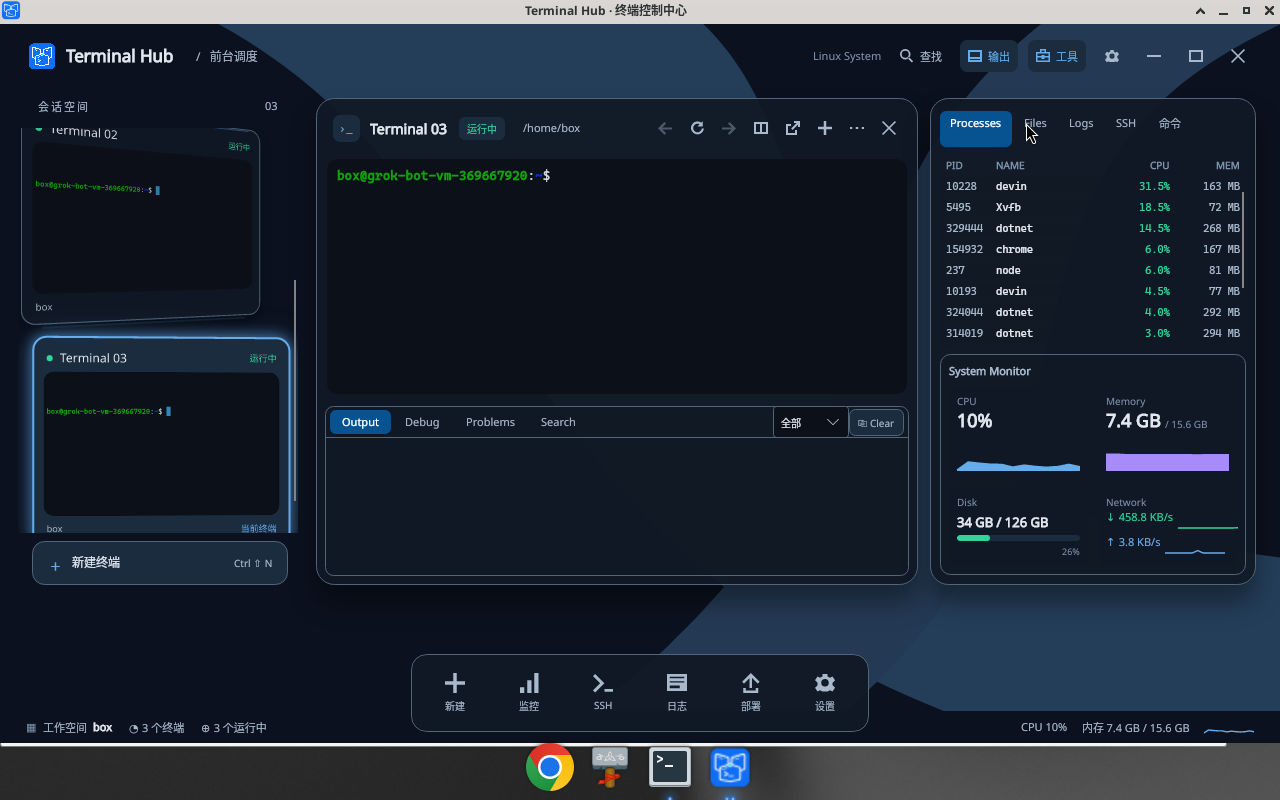
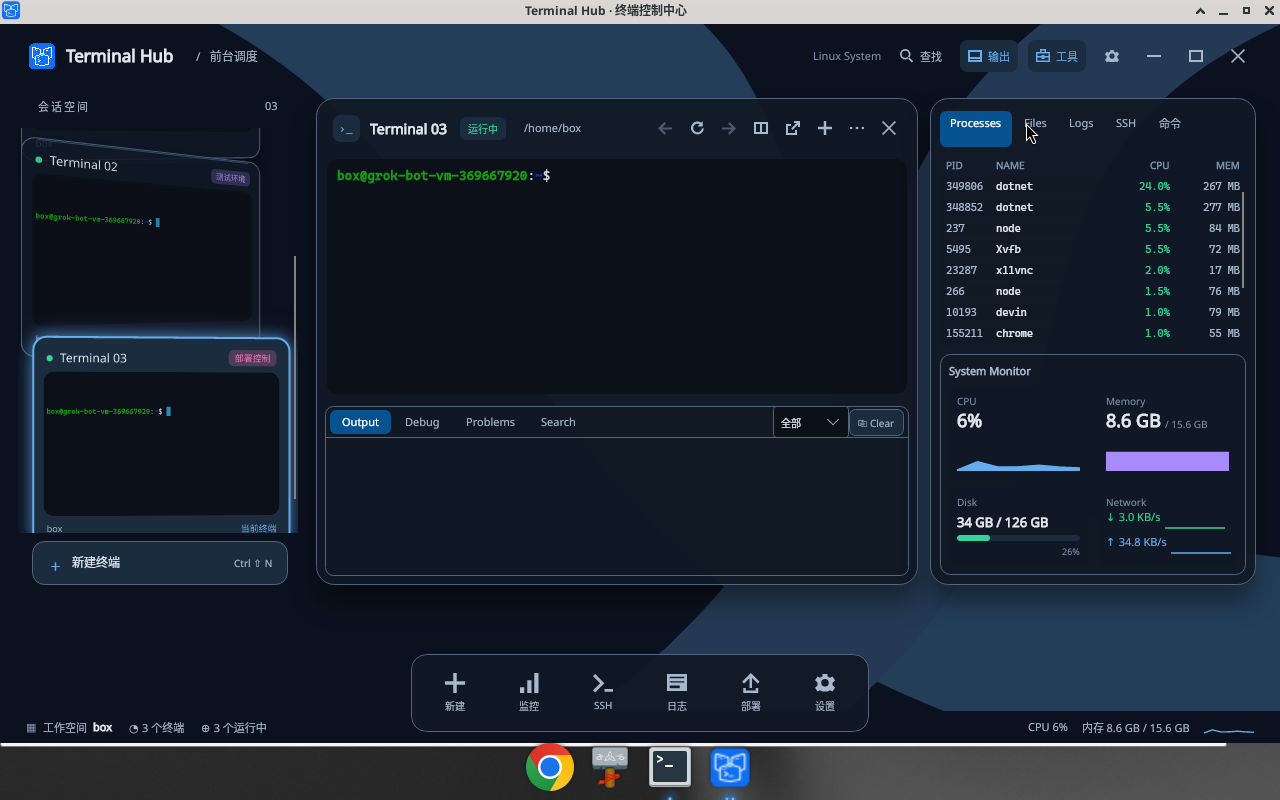
Review fixes: shrinking chrome columns, true stack overlap, test hygiene
- Name column Auto -> * (MaxWidth 360) and cwd *: Auto columns never
  shrink, so a long session name used to push every action button past
  the stage edge. Both text columns now ellipsize while nav / split /
  popout / new / menu / close stay reachable. Regression test:
  LongSessionName_ChromeButtonsStayReachable asserts menu+close inside
  the stage right edge at 1100x700.
- Shelf stack is now real overlap: StackPanel Spacing 16 -> 0, so the
  -16 card margin produces pitch = height - 16 instead of merely
  adjacent cards. The topmost card is exempt via
  SessionCardViewModel.IsFirstOnShelf / ShelfTopMargin so its header no
  longer bleeds 16px into the shelf title row; regression:
  ShelfStack_FirstCardNoOverlap_OthersTuck.
- ScrollIntoView for the active card now nudges the ScrollViewer so a
  tucked card's header is not clipped above the viewport
  (RevealShelfCard in MainWindow.axaml.cs).
- ThumbnailHeight formula synced: cards need height - overlap per extra
  card, so add (n-1)*overlap back instead of subtracting a gap that no
  longer exists.
- Tests: MainWindowViewModel instances are disposed (using var) and
  PtySessionFactory.UseMock is reset in finally.

Full suite: 534 passed / 0 failed / 3 skipped. Screenshots refreshed:
thumb-stack.png / stage-single-row-chrome.png (real overlap + full
name + all buttons reachable).

Generated with [Devin](https://devin.ai)

diff --git a/tests/TerminalHub.Tests/InspectorVisibilityTests.cs b/tests/TerminalHub.Tests/InspectorVisibilityTests.cs
@@ -21,7 +21,7 @@ public class InspectorVisibilityTests
         Assert.Null(new AppSettings().InspectorVisible); // unset = default-on
 
         var dir = Path.Combine(Path.GetTempPath(), Guid.NewGuid().ToString("N"));
-        var vm = new MainWindowViewModel(new IdleMonitor(), new SettingsStore(Path.Combine(dir, "settings.json")));
+        using var vm = new MainWindowViewModel(new IdleMonitor(), new SettingsStore(Path.Combine(dir, "settings.json")));
         Assert.True(vm.InspectorVisible); // fresh install → inspector expanded
         Assert.Equal(0, vm.SelectedRightTab); // Processes tab first, like the mockup
     }
@@ -34,7 +34,7 @@ public class InspectorVisibilityTests
         try
         {
             new SettingsStore(path).Save(new AppSettings { InspectorVisible = false });
-            var vm = new MainWindowViewModel(new IdleMonitor(), new SettingsStore(path));
+            using var vm = new MainWindowViewModel(new IdleMonitor(), new SettingsStore(path));
             Assert.False(vm.InspectorVisible); // explicit user choice wins
         }
         finally { try { Directory.Delete(dir, true); } catch { } }
@@ -47,13 +47,13 @@ public class InspectorVisibilityTests
         var path = Path.Combine(dir, "settings.json");
         try
         {
-            var vm = new MainWindowViewModel(new IdleMonitor(), new SettingsStore(path));
+            using var vm = new MainWindowViewModel(new IdleMonitor(), new SettingsStore(path));
             vm.ToggleInspectorCommand.Execute(null); // user hides it
             Assert.False(vm.InspectorVisible);
             vm.PersistSettings();
             Assert.Equal(false, new SettingsStore(path).Load().InspectorVisible);
 
-            var vm2 = new MainWindowViewModel(new IdleMonitor(), new SettingsStore(path));
+            using var vm2 = new MainWindowViewModel(new IdleMonitor(), new SettingsStore(path));
             Assert.False(vm2.InspectorVisible); // choice survives restart
             vm2.ToggleInspectorCommand.Execute(null);
             vm2.PersistSettings();
@@ -67,7 +67,7 @@ public class InspectorVisibilityTests
     {
         var dir = Path.Combine(Path.GetTempPath(), Guid.NewGuid().ToString("N"));
         using var monitor = new SystemMonitor();
-        var vm = new MainWindowViewModel(monitor, new SettingsStore(Path.Combine(dir, "settings.json")));
+        using var vm = new MainWindowViewModel(monitor, new SettingsStore(Path.Combine(dir, "settings.json")));
         var deadline = DateTime.UtcNow + TimeSpan.FromSeconds(6);
         while (vm.Dashboard.Processes.Count == 0 && DateTime.UtcNow < deadline)
             await Task.Delay(150);
@@ -84,10 +84,10 @@ public class InspectorVisibilityTests
     {
         PtySessionFactory.UseMock = true;
         var window = new MainWindow { Width = 1440, Height = 900 };
-        window.Show();
-        var vm = (MainWindowViewModel)window.DataContext!;
         try
         {
+            window.Show();
+            var vm = (MainWindowViewModel)window.DataContext!;
             Assert.True(vm.InspectorVisible);
 
             var deadline = DateTime.UtcNow + TimeSpan.FromSeconds(6);
@@ -102,7 +102,7 @@ public class InspectorVisibilityTests
             Assert.NotEmpty(list.GetVisualDescendants().OfType<TextBlock>()
                 .Where(t => int.TryParse(t.Text, out _))); // PID column realized
         }
-        finally { window.Close(); }
+        finally { window.Close(); PtySessionFactory.UseMock = false; }
     }
 
     private sealed class IdleMonitor : ISystemMonitor

diff --git a/tests/TerminalHub.Tests/StageLayoutTests.cs b/tests/TerminalHub.Tests/StageLayoutTests.cs
@@ -22,7 +22,7 @@ public class StageLayoutTests
         public MainWindow Window { get; }
         public MainWindowViewModel Vm => (MainWindowViewModel)Window.DataContext!;
 
-        public StageFixture(int width = 1440, int height = 900)
+        public StageFixture(int width = 1440, int height = 900, string? firstSessionName = null)
         {
             PtySessionFactory.UseMock = true;
             var store = new SettingsStore(Path.Combine(_directory, "settings.json"));
@@ -30,7 +30,8 @@ public class StageLayoutTests
             {
                 StartupSessions = Enumerable.Range(1, 5).Select(i => new StartupSession
                 {
-                    Name = $"Terminal {i:00}", Tag = i == 2 ? "测试环境" : "开发环境",
+                    Name = firstSessionName is not null && i == 1 ? firstSessionName : $"Terminal {i:00}",
+                    Tag = i == 2 ? "测试环境" : "开发环境",
                     WorkingDirectory = Environment.CurrentDirectory
                 }).ToList()
             });
@@ -79,6 +80,41 @@ public class StageLayoutTests
         var inactiveBorder = inactive.GetVisualChildren().OfType<Border>().First();
         Assert.False(Glows(inactiveBorder.BoxShadow)); // idle card keeps its plain shadow
         Assert.NotEqual(accent.Color, ((ISolidColorBrush?)inactiveBorder.BorderBrush)?.Color);
+    }
+
+    [AvaloniaFact]
+    public async Task LongSessionName_ChromeButtonsStayReachable()
+    {
+        var longName = "VeryLongSessionName-" + new string('长', 40) + "-tail";
+        using var fixture = new StageFixture(width: 1100, height: 700, firstSessionName: longName);
+        await Task.Delay(700);
+        var window = fixture.Window;
+        fixture.Vm.ActiveCard = fixture.Vm.SessionCards[0];
+        await Task.Delay(300);
+
+        var stage = window.FindControl<StageSurface>("StageWindow")!;
+        var menu = window.FindControl<Button>("SessionMenuButton")!;
+        var close = window.GetVisualDescendants().OfType<Button>()
+            .First(b => ToolTip.GetTip(b) as string == "关闭当前终端 · Ctrl+Shift+W");
+        Assert.True(menu.IsEffectivelyVisible);
+        Assert.True(close.IsEffectivelyVisible);
+
+        // The star-sized name column must shrink so the trailing Auto columns
+        // (menu, close) stay inside the stage card's right edge.
+        var stageRight = stage.TranslatePoint(new Point(stage.Bounds.Width, 0), window)!.Value.X;
+        Assert.True(close.TranslatePoint(new Point(close.Bounds.Width, 0), window)!.Value.X <= stageRight + 1);
+        Assert.True(menu.TranslatePoint(new Point(menu.Bounds.Width, 0), window)!.Value.X <= stageRight + 1);
+    }
+
+    [AvaloniaFact]
+    public async Task ShelfStack_FirstCardNoOverlap_OthersTuck()
+    {
+        using var fixture = new StageFixture();
+        await Task.Delay(600);
+        var cards = fixture.Vm.SessionCards;
+        Assert.NotEmpty(cards);
+        Assert.Equal(0, cards[0].ShelfTopMargin.Top); // topmost card must not bleed into the title row
+        Assert.All(cards.Skip(1), c => Assert.Equal(-SessionCardViewModel.ShelfOverlap, c.ShelfTopMargin.Top));
     }
 
     [AvaloniaTheory]

diff --git a/src/TerminalHub.App/Views/MainWindow.axaml.cs b/src/TerminalHub.App/Views/MainWindow.axaml.cs
@@ -120,15 +120,34 @@ public partial class MainWindow : Window
         if (_dragCard is not null) return;
         // Keep enough height for the full terminal grid; overflow remains scrollable.
         var visibleCards = Math.Clamp(Vm.SessionCards.Count, 1, 5);
-        ThumbnailHeight = Math.Clamp((SessionShelf.Bounds.Height - 34 - (visibleCards - 1) * 16) / visibleCards, 208, 268);
+        // Cards tuck 16px under the previous one, so each extra card only needs
+        // height - overlap of vertical room.
+        var overlap = SessionCardViewModel.ShelfOverlap;
+        ThumbnailHeight = Math.Clamp((SessionShelf.Bounds.Height - 34 + (visibleCards - 1) * overlap) / visibleCards, 208, 268);
         StageLayout.ColumnDefinitions[ShelfColumn].Width = new GridLength(Bounds.Width < 1250 ? 232 : 280);
         StageLayout.ColumnDefinitions[InspectorGutterColumn].Width = new GridLength(Vm.InspectorVisible ? 12 : 0);
         StageLayout.ColumnDefinitions[InspectorColumn].Width = new GridLength(Vm.InspectorVisible ? (Bounds.Width < 1250 ? 300 : 326) : 0);
         Dispatcher.UIThread.Post(() =>
         {
             if (_stageReady && IsVisible && Vm.ActiveCard is { } active && Vm.ShelfItems.Contains(active))
-                SessionShelf.ScrollIntoView(active);
+                RevealShelfCard(active);
         }, DispatcherPriority.Loaded);
+    }
+
+    /// <summary>ScrollIntoView aligns the item slot, but a tucked card renders
+    /// <see cref="SessionCardViewModel.ShelfOverlap"/> px above its slot — nudge
+    /// the scroll so the card header is not clipped at the viewport top.</summary>
+    private void RevealShelfCard(SessionCardViewModel active)
+    {
+        SessionShelf.ScrollIntoView(active);
+        var card = SessionShelf.GetVisualDescendants().OfType<StageCard>()
+            .FirstOrDefault(c => ReferenceEquals(c.DataContext, active));
+        var scroll = SessionShelf.GetVisualDescendants().OfType<ScrollViewer>().FirstOrDefault();
+        if (card is null || scroll is null) return;
+        var top = card.TranslatePoint(default, SessionShelf);
+        const double viewportTop = 14; // SessionShelf top padding
+        if (top is { } p && p.Y < viewportTop)
+            scroll.Offset = new Vector(scroll.Offset.X, Math.Max(0, scroll.Offset.Y + p.Y - viewportTop));
     }
 
     private void OnStageSelectionChanged(object? sender, PropertyChangedEventArgs e)
@@ -146,7 +165,7 @@ public partial class MainWindow : Window
         Dispatcher.UIThread.Post(() =>
         {
             if (!_stageReady || generation != _selectionGeneration || !IsVisible || _dragCard is not null) return;
-            if (Vm.ActiveCard is { } active && Vm.ShelfItems.Contains(active)) SessionShelf.ScrollIntoView(active);
+            if (Vm.ActiveCard is { } active && Vm.ShelfItems.Contains(active)) RevealShelfCard(active);
             // Apply a shelf scroll before reading the card's visible origin.
             SessionShelf.UpdateLayout();
             var card = SessionShelf.GetVisualDescendants().OfType<StageCard>()

diff --git a/src/TerminalHub.App/ViewModels/SessionCardViewModel.cs b/src/TerminalHub.App/ViewModels/SessionCardViewModel.cs
@@ -1,3 +1,4 @@
+using Avalonia;
 using Avalonia.Media;
 using CommunityToolkit.Mvvm.ComponentModel;
 using TerminalHub.Core.Sessions;
@@ -23,6 +24,28 @@ public partial class SessionCardViewModel : ViewModelBase
     private bool _isDisplayed;
     private long _seenOutputVersion;
     private int _previewVersion = -1;
+    private bool _isFirstOnShelf;
+
+    /// <summary>Pixels each card tucks under the previous one on the shelf
+    /// (mockup stack look). Keep in sync with the shelf margin binding.</summary>
+    public const double ShelfOverlap = 16;
+
+    /// <summary>True for the topmost shelf item — it must not pull up, or its
+    /// header would bleed past the list padding into the shelf title row.</summary>
+    public bool IsFirstOnShelf
+    {
+        get => _isFirstOnShelf;
+        set
+        {
+            if (_isFirstOnShelf == value) return;
+            _isFirstOnShelf = value;
+            OnPropertyChanged();
+            OnPropertyChanged(nameof(ShelfTopMargin));
+        }
+    }
+
+    /// <summary>Negative top margin producing the tucked stack; zero on the first card.</summary>
+    public Thickness ShelfTopMargin => _isFirstOnShelf ? default : new Thickness(0, -ShelfOverlap, 0, 0);
 
     public string Name => Model.Name;
     public string WorkingDirectory => Model.WorkingDirectory;

diff --git a/src/TerminalHub.App/ViewModels/MainWindowViewModel.Groups.cs b/src/TerminalHub.App/ViewModels/MainWindowViewModel.Groups.cs
@@ -188,6 +188,9 @@ public partial class MainWindowViewModel
             if (next.OfType<SessionGroupHeader>().Any(header => ReferenceEquals(header.Group, group))) continue;
             next.Add(Header(group.Id, group));
         }
+        // Only the topmost item is exempt from the stack overlap margin.
+        var top = next.FirstOrDefault();
+        foreach (var card in SessionCards) card.IsFirstOnShelf = ReferenceEquals(card, top);
         var keep = ActiveCard;
         _rebuildingShelf = true;
         try
